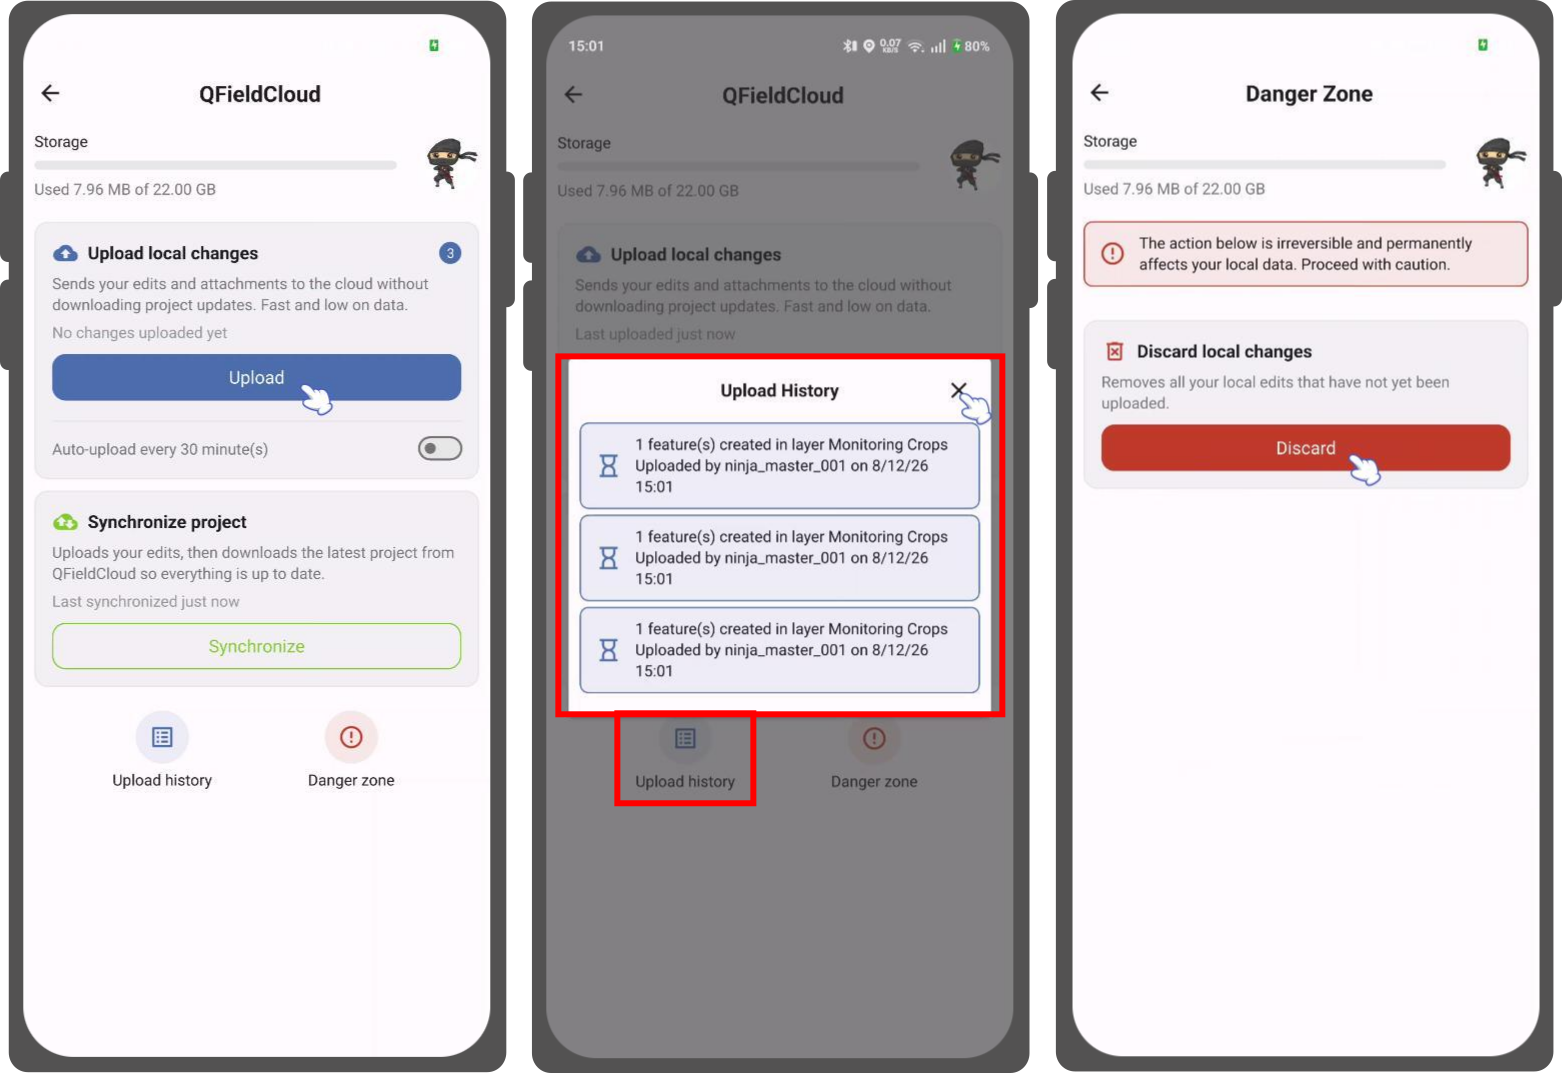
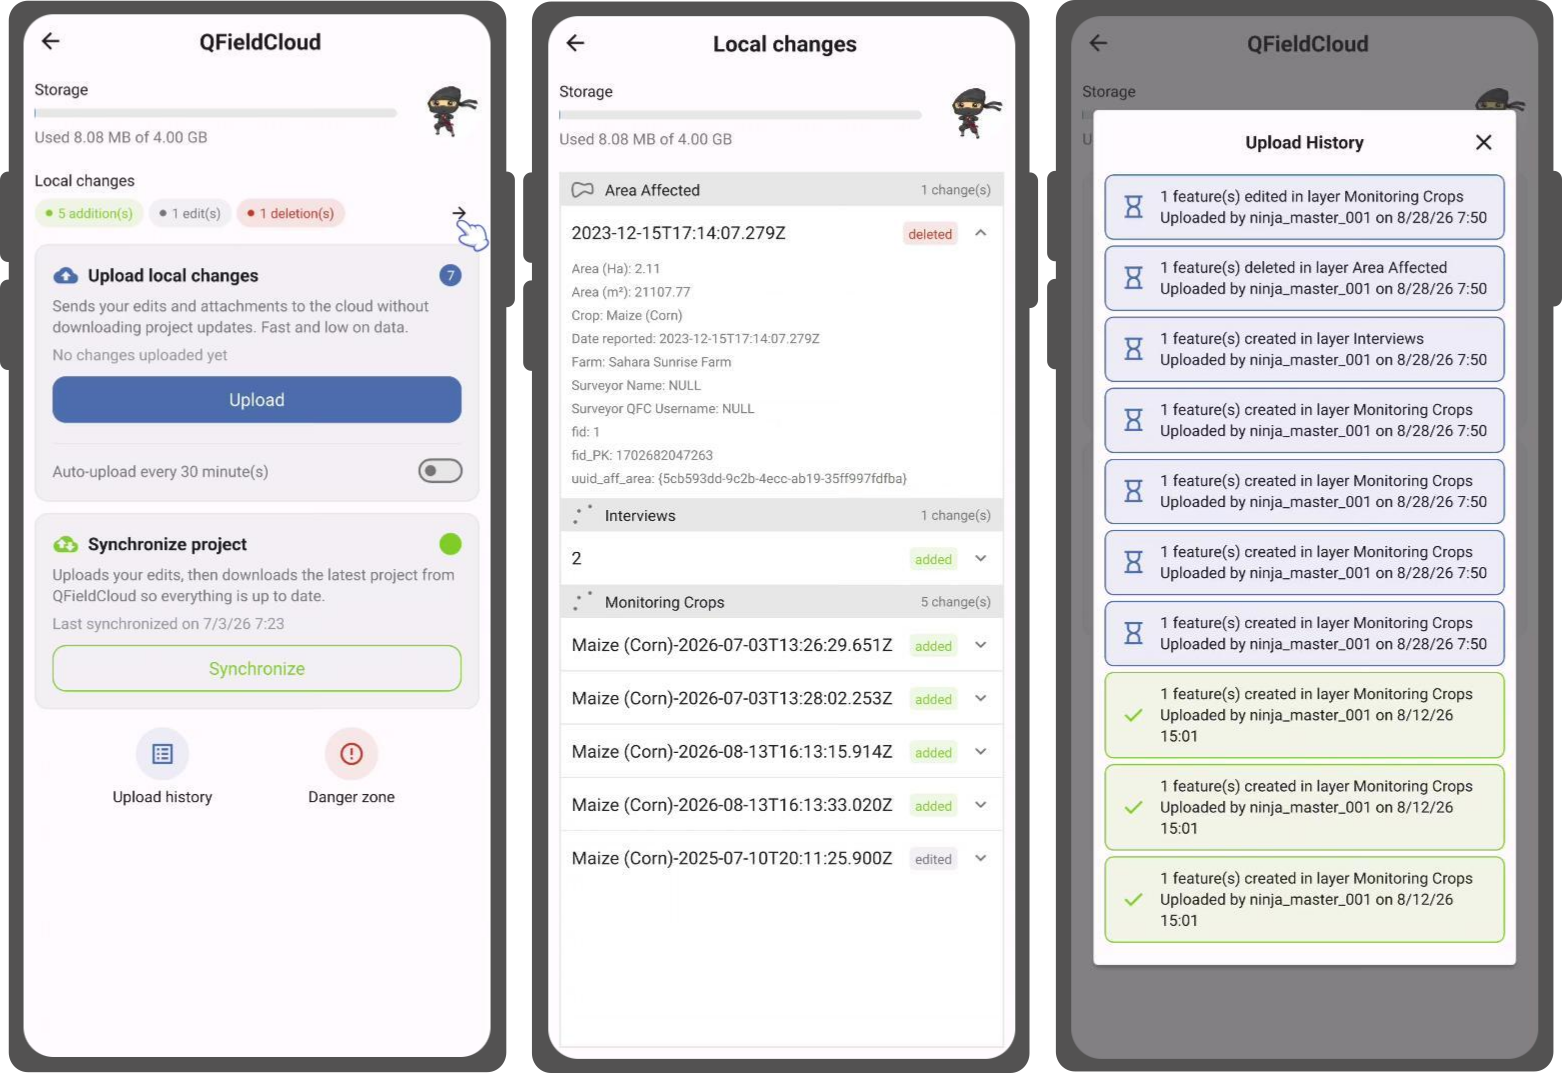
Adding functionality of review their local changes before uploading

diff --git a/documentation/get-started/tutorials/get-started-qfc.en.md b/documentation/get-started/tutorials/get-started-qfc.en.md
@@ -7,29 +7,29 @@ tx_slug: documentation_get-started_tutorials_get-started-qfc
 
 ## What is QFieldCloud
 
-QFieldCloud is the cloud service that allows smoothless synchronisation of your data between your mobile device for fieldwork and your desktop working station.
-You can further manage teams, work in organisations, assign different editing permissions and much more.
+QFieldCloud is the cloud service that allows seamless synchronization of your data between your mobile device for fieldwork and your desktop working station.
+You can further manage teams, work in organizations, assign different editing permissions and much more.
 
 ## Register to [QFieldCloud](https://app.qfield.cloud/accounts/signup/)
 :material-monitor: Desktop preparation
 
 !!! Workflow
     1. Go to the [Sign up page](https://app.qfield.cloud/accounts/signup/), enter your details and create a new QFieldCloud account.
-    2. (Optionable) If you have a received a referral code, please enter it in the according field.
+    2. (Optional) If you have received a referral code, please enter it in the according field.
         !![Registration form](../../assets/images/qfieldcloud_registration.png,250px)
 
 ## QFieldCloud Overview
 
-Once registered your personal QFieldCloud landing page, will show you all the projects that you have access to in the center of the window.
-In case that you have many projects, you can search in the search bar at the top of the page.
+Once registered, your personal QFieldCloud landing page will show you all the projects that you have access to in the center of the window.
+In case you have many projects, you can search in the search bar at the top of the page.
 It is also possible to create a new empty project from this menu.
-All further configuration of that project, however needs to be done inside QGIS.
+All further configuration of that project, however, needs to be done inside QGIS.
 Under your profile name, you are able to edit and manage your account details and get an overview of what organizations you are a member of, as well as what collaborations you have.
 Finally, if you have subscribed to a personal plan with [QFieldCloud](https://qfield.cloud/pricing), you can manage it from here.
 
 !!! Tip
     In the project overview page, the two names indicate the "Owner" of the project and the "Name" of the project.
-    In case that you are the owner or a member of an organisation, you may find that the name will be different in case that you are not the project. owner.
+    In case you are the owner or a member of an organization, you may find that the name will be different if you are not the project owner.
 
 !![QFieldCloud projects overview](../../assets/images/overview_projects_qfcloud.png,800px)
 
@@ -46,8 +46,8 @@ There are several ways to create and initialize a new project in QFieldCloud dep
 In order to connect to QFieldCloud, you need the QFieldSync plugin in QGIS. The next steps show you how you can install and synchronize your data to and from QFieldCloud.
 
 !!! Workflow
-    1. Open the QGIS plugin manager by going to the *Plugins* > *Manage and install Plugins*.
-    2. Under "All" find QFieldSync in the list  and install the latest version by clicking the "Install Plugin" button.
+    1. Open the QGIS plugin manager by going to *Plugins* > *Manage and Install Plugins...*
+    2. Under "All", find QFieldSync in the list and install the latest version by clicking the "Install Plugin" button.
         !![Successful installation](../../assets/images/install_qfieldsync.png)
         After successful installation, a new toolbar appears:
         !![Toolbar](../../assets/images/qfieldsync_toolbar.png,200px)
@@ -85,7 +85,7 @@ The icons indicate the cloud and local status of the different projects.
 
 - **Cloud status**: There are three different types of status indicated by a color which show the current status of your cloud project.
     The status of each project is shown with a tooltip.
-    - **Red Status:** The project is invalid and is not ready-for use in the field.
+    - **Red Status:** The project is invalid and is not ready for use in the field.
         There are multiple reasons for this and the status message on your QFieldCloud landing page is the first step to address the issue.
     - **Brown Status:** The project is currently being updated or edited.
     - **Green Status**: The project is ready to be used in the field.
@@ -130,7 +130,7 @@ Now you should see your project and files on your project overview page on [QFie
 When you are ready for your fieldwork it is time to setup QField on your mobile device.
 
 !!! Workflow
-    1. Download and install the latest version of QField from Google's play store, Apple's app store, or by [downloading the latest release for Windows, Linux, or macos](https://github.com/opengisch/QField/releases).
+    1. Download and install the latest version of QField from Google's Play Store, Apple's App Store, or by [downloading the latest release for Windows, Linux, or macOS](https://github.com/opengisch/QField/releases).
     2. Direct to *Cloud Projects* and log in to QFieldCloud on your mobile device
         !![Welcome](../../assets/images/getting_started_splashscreen.png,250px)
         !![Login](../../assets/images/getting_started_login.png,250px)
@@ -187,8 +187,9 @@ After you are done collecting data, you will need to synchronize your changes ba
     1. Open the *Side Dashboard* in QField.
     2. Click on the cloud icon (a badge will indicate how many local changes you have made).
         !![Cloud button](../../assets/images/getting_started_blue_button.png,400px)
-    3. Choose the appropriate action for your data:
-        - **Upload local changes:** Your local changes only will be send to the cloud.
+    3. Review or choose the appropriate action for your data:
+        - **Local changes review:** Before uploading, you can inspect a summary of your pending edits directly above the action buttons (**additions**, **edits**, **deletions**). Tapping any detail arrow opens the full **Local changes** screen, which lists pending edits grouped by layer, complete with geometry icons, feature names, and specific attribute modifications (`old_value` to `new_value`).
+        - **Upload local changes:** Your local changes only will be sent to the cloud.
             This is fast and saves internet bandwidth.
         - **Synchronize project:** First your local changes will be uploaded.
             Following, the latest project from QFieldCloud will be downloaded, including all changes made since you last synchronized.
